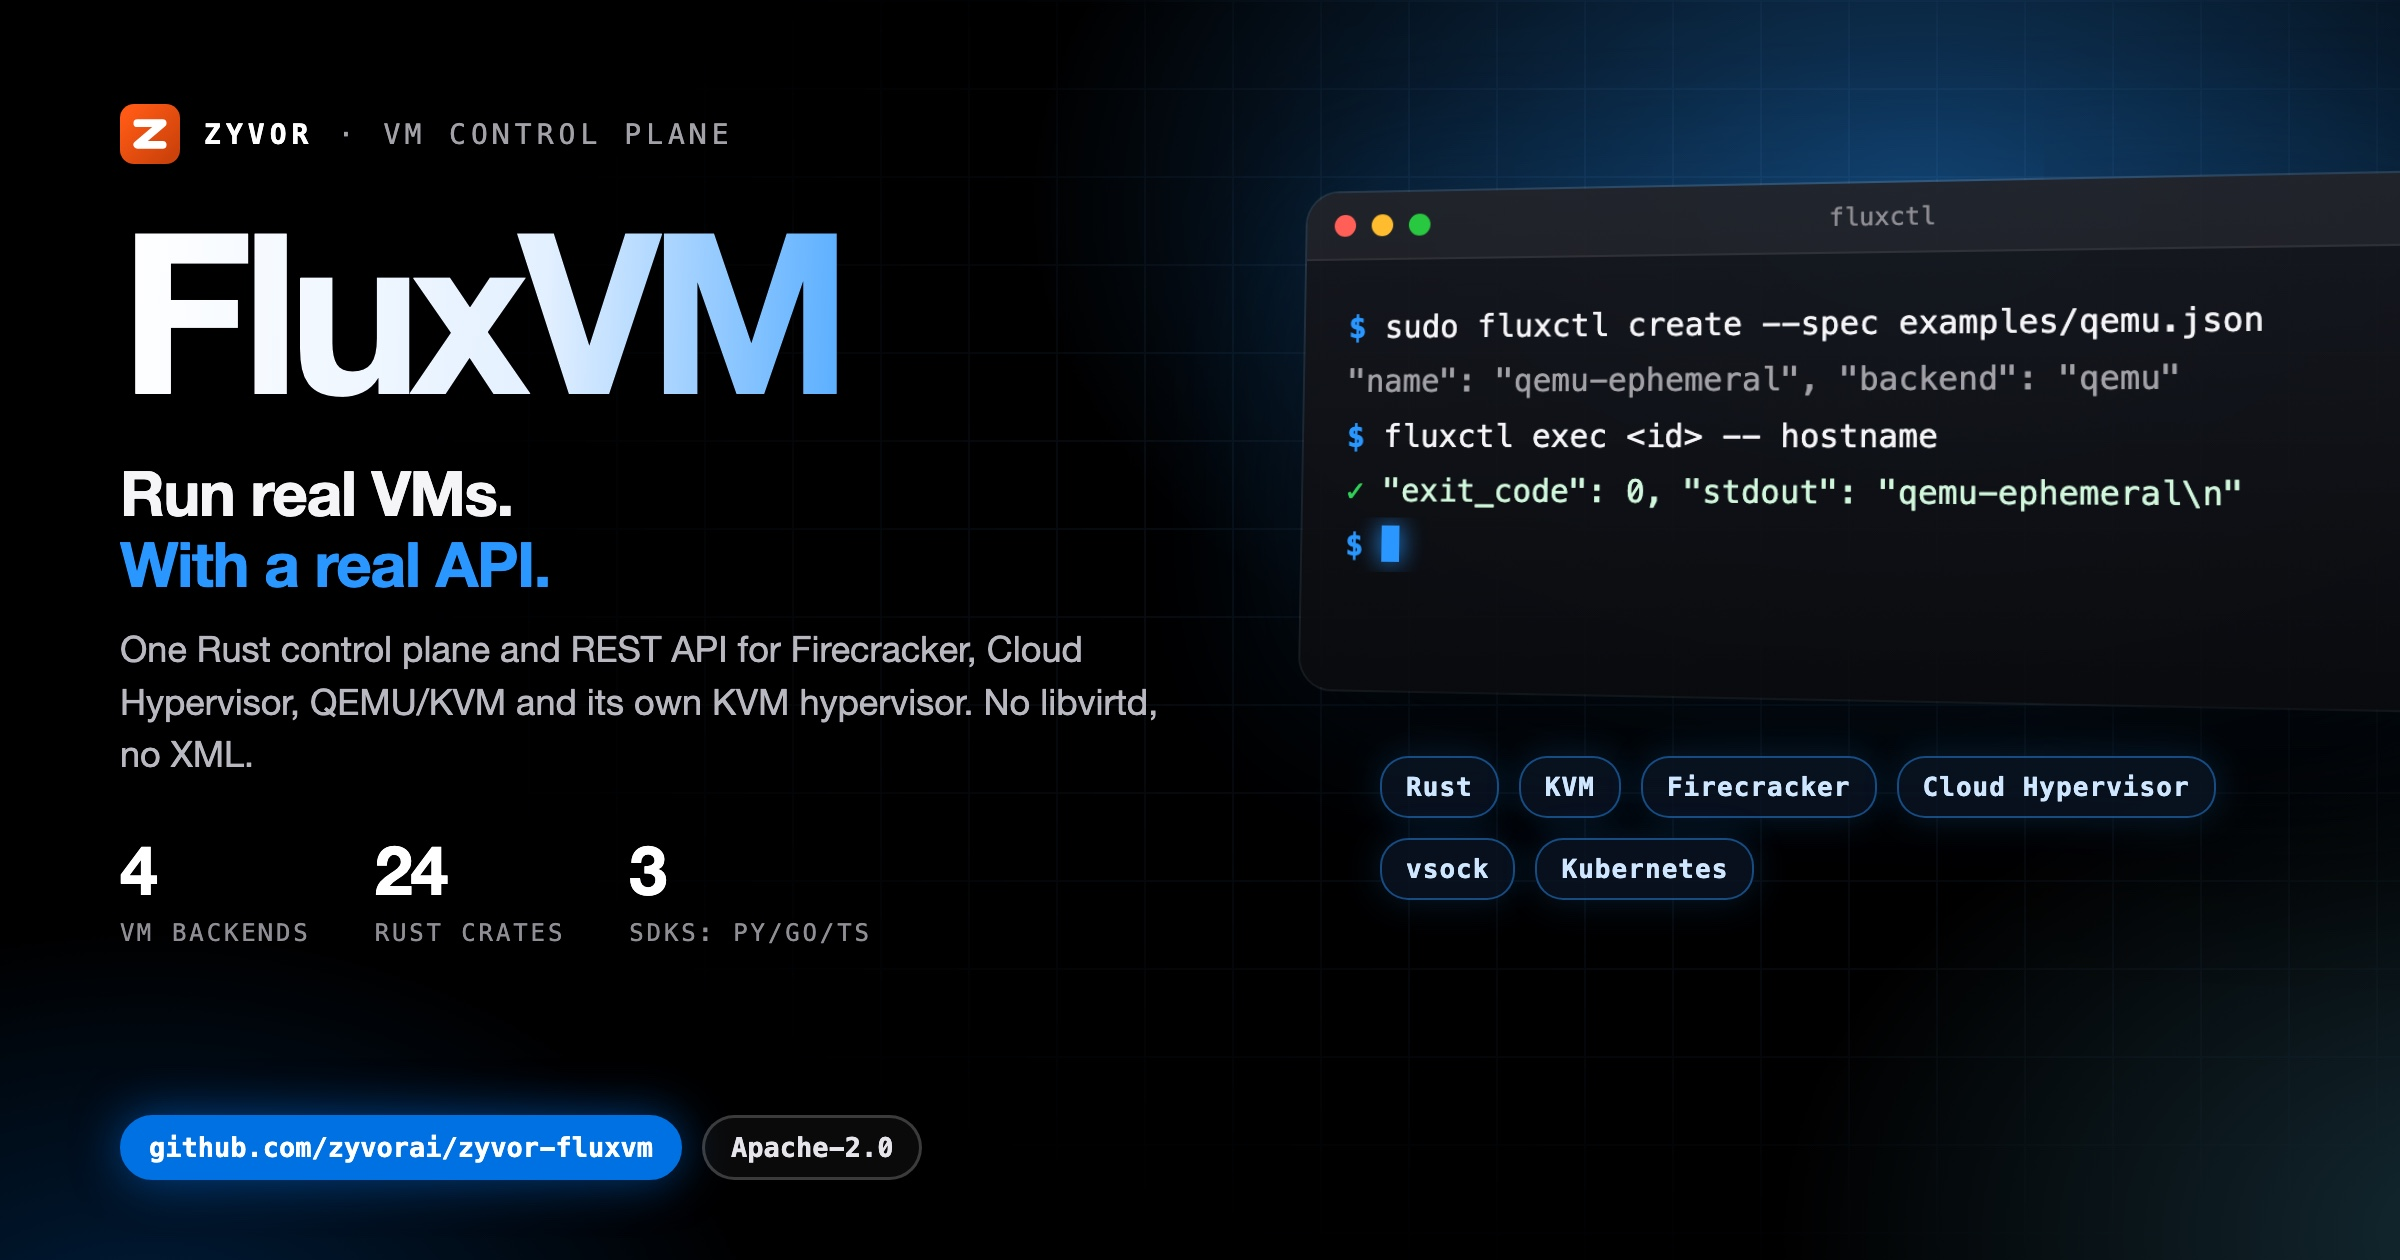
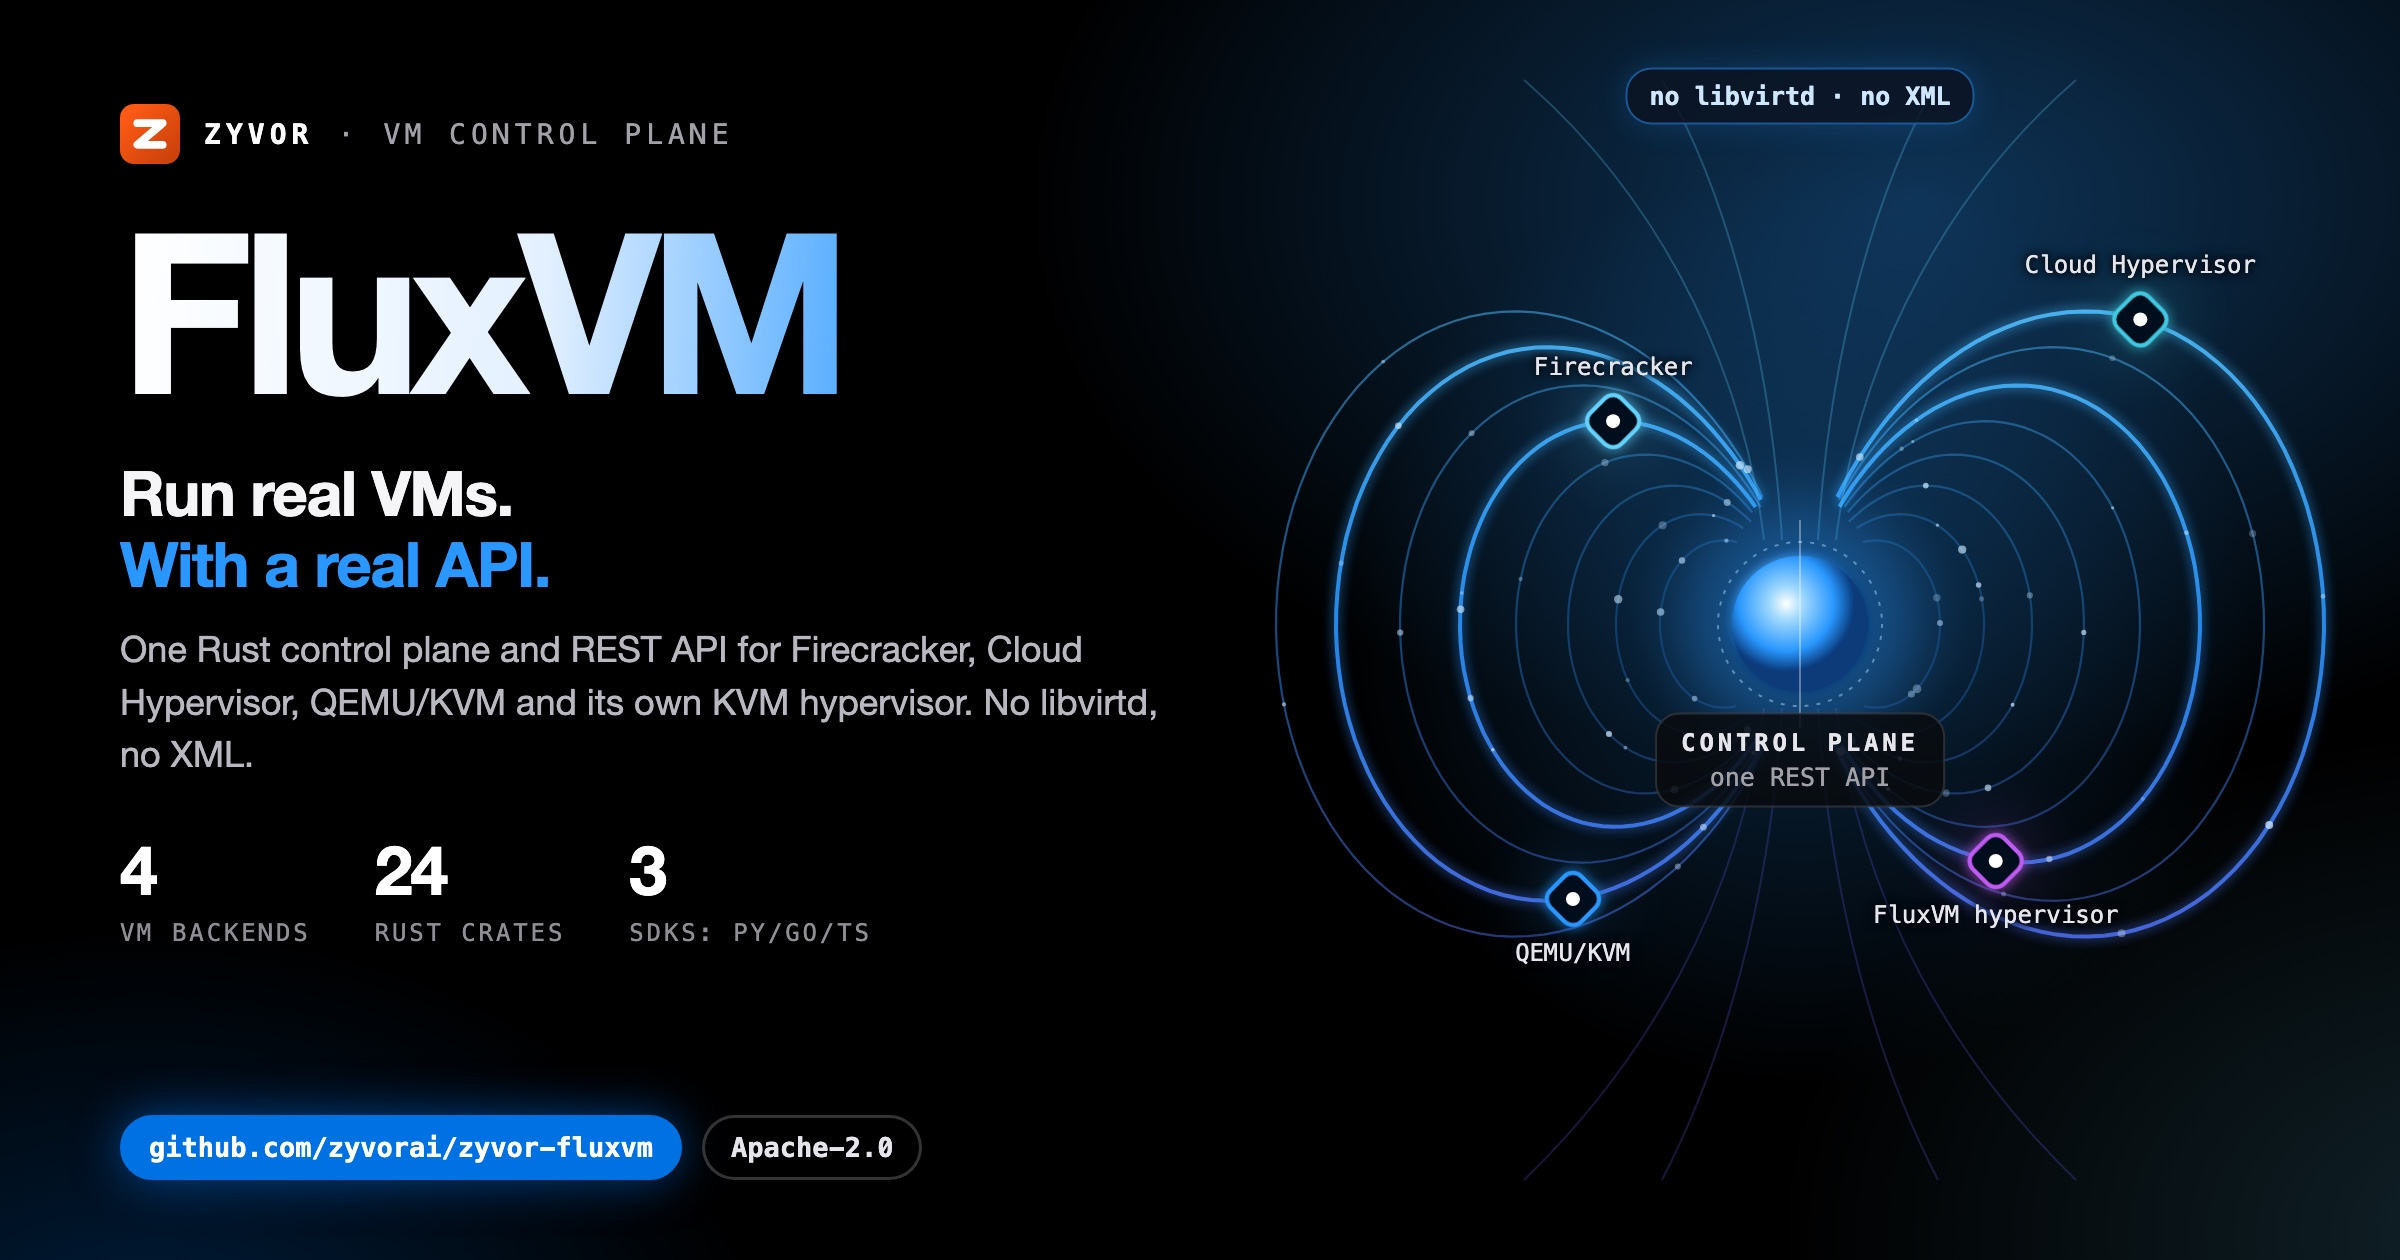
docs(social): unique illustrated hero card
Replace the shared terminal-window art with a motif drawn for this project;
same verified copy and stats on the left.

Changed region(s): [[0.5312, 0.031, 1.0, 0.7738]]

diff --git a/docs/social/fluxvm-hero-dark.html b/docs/social/fluxvm-hero-dark.html
@@ -8,58 +8,47 @@
   Build: ./docs/social/build-hero-dark.sh  ->  fluxvm-hero-dark.jpg (2400x1260)
 -->
 <style>
-  :root { --blue:#0071e3; --signal:#2997ff; --cyan:#64d2ff; --green:#30d158; --amber:#ff9f0a;
+  :root { --blue:#0071e3; --signal:#2997ff; --cyan:#64d2ff; --green:#30d158; --amber:#ff9f0a; --red:#ff453a; --violet:#bf5af2;
     --sans:'SF Pro Display','Helvetica Neue',Helvetica,Arial,sans-serif; --mono:'SF Mono',Menlo,Consolas,monospace; }
   * { box-sizing:border-box; }
   html,body { margin:0; padding:0; }
   body { width:1200px; height:630px; overflow:hidden; color:#f5f5f7; font-family:var(--sans); position:relative; background:#000; }
   .aurora { position:absolute; inset:0;
-    background:radial-gradient(720px 460px at 80% 16%, rgba(41,151,255,.40), transparent 62%),
-               radial-gradient(600px 420px at 104% 98%, rgba(100,210,255,.20), transparent 60%),
+    background:radial-gradient(720px 460px at 80% 16%, rgba(41,151,255,.34), transparent 62%),
+               radial-gradient(600px 420px at 104% 98%, rgba(100,210,255,.16), transparent 60%),
                radial-gradient(520px 380px at 6% 110%, rgba(0,113,227,.28), transparent 60%); }
-  .grid { position:absolute; inset:0; opacity:.09;
-    background-image:linear-gradient(rgba(120,180,255,.9) 1px,transparent 1px),linear-gradient(90deg,rgba(120,180,255,.9) 1px,transparent 1px);
-    background-size:44px 44px; -webkit-mask-image:radial-gradient(900px 520px at 72% 42%, #000 18%, transparent 75%); }
-  .left { position:absolute; left:60px; top:52px; width:560px; z-index:3; }
+  .copy { position:absolute; left:60px; top:52px; width:560px; z-index:3; }
   .brand { display:flex; align-items:center; gap:12px; font-family:var(--mono); font-size:14px; letter-spacing:.18em; text-transform:uppercase; color:#a1a1a6; }
   .brand b { color:#fff; }
   .word { margin:20px 0 0; font-size:112px; line-height:.95; font-weight:800; letter-spacing:-.05em; white-space:nowrap;
     background:linear-gradient(92deg,#fff 0%,#e3f0ff 38%,var(--signal) 74%,var(--cyan) 100%); -webkit-background-clip:text; background-clip:text; color:transparent; padding-bottom:6px; }
   .tag { margin:14px 0 0; font-size:31px; line-height:1.15; font-weight:700; letter-spacing:-.02em; }
   .tag em { font-style:normal; color:var(--signal); }
-  .lede { margin:12px 0 0; font-size:18px; line-height:1.45; color:#b8b8bf; width:520px; }
+  .lede { margin:12px 0 0; font-size:18px; line-height:1.45; color:#b8b8bf; width:520px; text-shadow:0 1px 12px #000; }
   .stats { margin-top:24px; display:flex; gap:32px; }
   .stat b { display:block; font-size:34px; font-weight:800; letter-spacing:-.03em; color:#fff; }
   .stat span { font-family:var(--mono); font-size:12px; letter-spacing:.12em; text-transform:uppercase; color:#8e8e93; }
   .pill { position:absolute; left:60px; bottom:40px; display:flex; gap:10px; z-index:3; }
-  .pill span { font-family:var(--mono); font-size:13.5px; font-weight:700; padding:7px 13px; border-radius:18px; border:1.5px solid rgba(255,255,255,.2); color:#e5e5ea; background:rgba(255,255,255,.04); }
+  .pill span { font-family:var(--mono); font-size:13.5px; font-weight:700; padding:7px 13px; border-radius:18px; border:1.5px solid rgba(255,255,255,.2); color:#e5e5ea; background:rgba(0,0,0,.6); }
   .pill span.b { background:var(--blue); border-color:var(--blue); color:#fff; box-shadow:0 0 24px rgba(0,113,227,.55); }
-
-  .right { position:absolute; left:652px; top:96px; width:560px; z-index:2; }
-  .win { position:relative; width:560px; border-radius:16px; overflow:hidden; z-index:2;
-    background:linear-gradient(180deg, rgba(22,24,30,.94), rgba(10,11,14,.96));
-    box-shadow:0 50px 100px rgba(0,0,0,.75), 0 0 0 1px rgba(255,255,255,.14), 0 0 90px rgba(41,151,255,.22);
-    transform:perspective(1600px) rotateY(-14deg) rotateX(4deg); transform-origin:left center; }
-  .bar { height:34px; display:flex; align-items:center; gap:8px; padding:0 14px; background:rgba(255,255,255,.05); border-bottom:1px solid rgba(255,255,255,.07); }
-  .bar i { width:11px; height:11px; border-radius:50%; background:#ff5f57; } .bar i:nth-child(2){background:#febc2e} .bar i:nth-child(3){background:#28c840}
-  .bar em { margin-left:auto; margin-right:auto; font-style:normal; font-family:var(--mono); font-size:12px; color:#8e8e93; transform:translateX(-24px); }
-  .term { min-height:214px; padding:20px 22px 24px; font-family:var(--mono); font-size:15.5px; line-height:1.75; }
-  .l { white-space:pre; overflow:hidden; text-overflow:ellipsis; color:#f5f5f7; }
-  .l .p { color:var(--signal); font-weight:700; }
-  .l.out { color:#a1a1a6; }
-  .l.cm { color:#6e6e73; }
-  .l.ok { color:#d1f7dc; } .l.ok span { color:var(--green); font-weight:700; }
-  .l.warn { color:#ffe1b0; } .l.warn span { color:var(--amber); font-weight:700; }
-  .cur { display:inline-block; width:9px; height:18px; background:var(--signal); vertical-align:-3px; box-shadow:0 0 12px var(--signal); }
-  .chips { margin:34px 0 0 38px; width:480px; display:flex; flex-wrap:wrap; gap:10px; position:relative; z-index:3; }
-  .chips span { font-family:var(--mono); font-size:13px; font-weight:700; letter-spacing:.04em; padding:7px 12px; border-radius:14px;
-    color:#cfe6ff; background:rgba(10,20,35,.82); border:1px solid rgba(41,151,255,.45); box-shadow:0 0 18px rgba(41,151,255,.18); }
+  .art { position:absolute; left:520px; top:0; width:680px; height:630px; z-index:2; }
+  .art svg { display:block; }
+  #labels { position:absolute; inset:0; z-index:4; pointer-events:none; }
+  .lbl { position:absolute; font-family:var(--mono); font-size:12.5px; color:#a1a1a6; text-align:center; transform:translate(-50%,-50%); white-space:nowrap; }
+  .lbl b { display:block; font-size:12px; letter-spacing:.16em; text-transform:uppercase; color:#e5e5ea; }
+  .lbl span { display:block; margin-top:3px; }
+  .lbl.box { padding:7px 12px; border-radius:12px; background:rgba(8,10,14,.85); border:1px solid rgba(255,255,255,.14); }
+  .lbl.chip { padding:6px 11px; border-radius:13px; font-size:12.5px; font-weight:700; color:#cfe6ff; background:rgba(10,20,35,.85); border:1px solid rgba(41,151,255,.5); box-shadow:0 0 16px rgba(41,151,255,.2); }
+  .lbl.left { transform:translate(0,-50%); text-align:left; }
+  .lbl.right { transform:translate(-100%,-50%); text-align:right; }
+  .ok { color:var(--green) !important; } .warn { color:var(--amber) !important; } .bad { color:var(--red) !important; } .sig { color:var(--signal) !important; } .cy { color:var(--cyan) !important; } .vi { color:var(--violet) !important; }
 </style>
 </head>
 <body>
 <div class="aurora"></div>
-<div class="grid"></div>
-<div class="left">
+<div class="art"><svg id="art" width="680" height="630" viewBox="0 0 680 630" xmlns="http://www.w3.org/2000/svg"></svg></div>
+<div id="labels"></div>
+<div class="copy">
   <div class="brand"><svg viewBox="0 0 64 64" width="30" height="30" aria-hidden="true"><defs><linearGradient id="zb" x1="8" y1="8" x2="56" y2="56" gradientUnits="userSpaceOnUse"><stop offset="0" stop-color="#ff5a15"/><stop offset="1" stop-color="#cc420a"/></linearGradient></defs><rect width="64" height="64" rx="15" fill="url(#zb)"/><path d="M18.5,20.5 45.5,20.5 18.5,43.5 45.5,43.5" fill="none" stroke="#fff" stroke-width="8.3" stroke-linecap="round" stroke-linejoin="round"/></svg><b>Zyvor</b><span>&middot;</span><span>VM control plane</span></div>
   <div class="word">FluxVM</div>
   <div class="tag">Run real VMs.<br><em>With a real API.</em></div>
@@ -67,8 +56,95 @@
   <div class="stats"><div class="stat"><b>4</b><span>VM backends</span></div><div class="stat"><b>24</b><span>Rust crates</span></div><div class="stat"><b>3</b><span>SDKs: Py/Go/TS</span></div></div>
 </div>
 <div class="pill"><span class="b">github.com/zyvorai/zyvor-fluxvm</span><span>Apache-2.0</span></div>
-<div class="right"><div class="win"><div class="bar"><i></i><i></i><i></i><em>fluxctl</em></div>
-<div class="term"><div class="l"><span class="p">$</span> sudo fluxctl create --spec examples/qemu.json</div><div class="l out">&quot;name&quot;: &quot;qemu-ephemeral&quot;, &quot;backend&quot;: &quot;qemu&quot;</div><div class="l"><span class="p">$</span> fluxctl exec &lt;id&gt; -- hostname</div><div class="l ok"><span>&#10003;</span> &quot;exit_code&quot;: 0, &quot;stdout&quot;: &quot;qemu-ephemeral\n&quot;</div><div class="l"><span class="p">$</span> <i class="cur"></i></div></div></div>
-<div class="chips"><span>Rust</span><span>KVM</span><span>Firecracker</span><span>Cloud Hypervisor</span><span>vsock</span><span>Kubernetes</span></div></div>
+<script>
+var Z = (function () {
+  var NS = 'http://www.w3.org/2000/svg', svg = document.getElementById('art'), labels = document.getElementById('labels');
+  var seed = 20261004;
+  function rnd() { seed = (seed * 1103515245 + 12345) % 2147483648; return seed / 2147483648; }
+  function el(tag, a, parent) { var n = document.createElementNS(NS, tag); for (var k in a) n.setAttribute(k, a[k]); (parent || svg).appendChild(n); return n; }
+  function g(attrs) { return el('g', attrs || {}); }
+  function label(x, y, inner, cls, style) { var d = document.createElement('div'); d.className = 'lbl ' + (cls || ''); d.style.left = (520 + x) + 'px'; d.style.top = y + 'px'; if (style) d.setAttribute('style', d.getAttribute('style') + ';' + style); d.innerHTML = inner; labels.appendChild(d); return d; }
+  return { NS: NS, svg: svg, W: 680, H: 630, rnd: rnd, el: el, g: g, label: label,
+    reseed: function (s) { seed = s; },
+    c: { blue: '#0071e3', signal: '#2997ff', cyan: '#64d2ff', green: '#30d158', amber: '#ff9f0a', red: '#ff453a', violet: '#bf5af2', teal: '#40c8e0', indigo: '#5e5ce6', pink: '#ff375f', white: '#f5f5f7', grey: '#8e8e93' } };
+})();
+(function () {
+// FluxVM: dipole flux around one control-plane core. The four VM backends ride on the field lines.
+var C = Z.c;
+var defs = Z.el('defs', {});
+defs.innerHTML = '<filter id="fxGl" filterUnits="userSpaceOnUse" x="-50" y="-50" width="780" height="730"><feGaussianBlur stdDeviation="3" result="b"/><feMerge><feMergeNode in="b"/><feMergeNode in="SourceGraphic"/></feMerge></filter>' +
+  '<filter id="fxSf" filterUnits="userSpaceOnUse" x="-50" y="-50" width="780" height="730"><feGaussianBlur stdDeviation="16"/></filter>' +
+  '<radialGradient id="fxCore" cx=".4" cy=".35"><stop offset="0" stop-color="#ffffff"/><stop offset=".25" stop-color="#9fd8ff"/><stop offset=".7" stop-color="#2997ff"/><stop offset="1" stop-color="#0a3a7a"/></radialGradient>' +
+  '<radialGradient id="fxHalo"><stop offset="0" stop-color="#2997ff" stop-opacity=".55"/><stop offset="1" stop-color="#2997ff" stop-opacity="0"/></radialGradient>' +
+  '<linearGradient id="fxLine" gradientUnits="userSpaceOnUse" x1="0" y1="80" x2="0" y2="540"><stop offset="0" stop-color="#64d2ff"/><stop offset=".5" stop-color="#2997ff"/><stop offset="1" stop-color="#5e5ce6"/></linearGradient>';
+
+var cx = 380, cy = 312, SY = 1.55, rCore = 34;
+function fieldPath(L, side) {
+  var d = '', started = false;
+  for (var t = 2; t <= 178; t += 1.5) {
+    var th = t * Math.PI / 180, r = L * Math.sin(th) * Math.sin(th);
+    if (r < rCore + 6) { started = false; continue; }
+    var x = cx + side * r * Math.sin(th), y = cy - SY * r * Math.cos(th);
+    d += (started ? ' L' : ' M') + x.toFixed(1) + ',' + y.toFixed(1);
+    started = true;
+  }
+  return d;
+}
+Z.el('circle', { cx: cx, cy: cy, r: 230, fill: 'url(#fxHalo)', opacity: .45 });
+
+// field lines: faint many, a few bright
+var Ls = [70, 92, 116, 142, 170, 200, 232, 262];
+var paths = {};
+Ls.forEach(function (L, k) {
+  [-1, 1].forEach(function (side) {
+    var d = fieldPath(L, side), bright = (k === 5 && side > 0) || (k === 4 && side < 0) || (k === 6 && side < 0) || (k === 7 && side > 0);
+    Z.el('path', { d: d, fill: 'none', stroke: 'url(#fxLine)', 'stroke-width': bright ? 2 : 1.1, opacity: bright ? .9 : (.22 + k * .04), filter: bright ? 'url(#fxGl)' : null });
+    paths[L + ':' + side] = Z.el('path', { d: d, fill: 'none', stroke: 'none' });
+  });
+});
+// open polar lines near the axis
+for (var k = -2; k <= 2; k++) {
+  if (!k) continue;
+  var x0 = cx + k * 9;
+  Z.el('path', { d: 'M' + x0 + ',' + (cy - rCore - 8) + ' C' + (x0 + k * 6) + ',' + (cy - 140) + ' ' + (x0 + k * 30) + ',' + (cy - 220) + ' ' + (x0 + k * 60) + ',' + 40, fill: 'none', stroke: C.cyan, 'stroke-width': 1, opacity: .25 });
+  Z.el('path', { d: 'M' + x0 + ',' + (cy + rCore + 8) + ' C' + (x0 + k * 6) + ',' + (cy + 140) + ' ' + (x0 + k * 30) + ',' + (cy + 220) + ' ' + (x0 + k * 60) + ',' + 590, fill: 'none', stroke: C.indigo, 'stroke-width': 1, opacity: .25 });
+}
+// flux particles drifting along lines
+Ls.forEach(function (L) {
+  [-1, 1].forEach(function (side) {
+    var p = paths[L + ':' + side], len = p.getTotalLength();
+    for (var n = 0; n < 4; n++) {
+      var pt = p.getPointAtLength(Z.rnd() * len);
+      Z.el('circle', { cx: pt.x.toFixed(1), cy: pt.y.toFixed(1), r: (0.8 + Z.rnd() * 1.4).toFixed(2), fill: '#cfe9ff', opacity: (.25 + Z.rnd() * .5).toFixed(2) });
+    }
+  });
+});
+
+// core
+Z.el('circle', { cx: cx, cy: cy, r: 60, fill: '#2997ff', opacity: .35, filter: 'url(#fxSf)' });
+Z.el('circle', { cx: cx, cy: cy, r: rCore, fill: 'url(#fxCore)', filter: 'url(#fxGl)' });
+Z.el('circle', { cx: cx, cy: cy, r: rCore + 7, fill: 'none', stroke: 'rgba(160,215,255,.5)', 'stroke-width': 1, 'stroke-dasharray': '2 4' });
+Z.el('line', { x1: cx, y1: cy - rCore - 18, x2: cx, y2: cy + rCore + 18, stroke: 'rgba(255,255,255,.35)', 'stroke-width': 1 });
+
+// backends sitting on the field lines
+var nodes = [
+  { L: 170, side: -1, t: 55, n: 'Firecracker', c: C.cyan, up: true },
+  { L: 262, side: 1, t: 60, n: 'Cloud Hypervisor', c: C.teal, up: true },
+  { L: 232, side: -1, t: 128, n: 'QEMU/KVM', c: C.signal, up: false },
+  { L: 200, side: 1, t: 128, n: 'FluxVM hypervisor', c: C.violet, up: false }
+];
+nodes.forEach(function (nd) {
+  var th = nd.t * Math.PI / 180, r = nd.L * Math.sin(th) * Math.sin(th);
+  var x = cx + nd.side * r * Math.sin(th), y = cy - SY * r * Math.cos(th);
+  Z.el('circle', { cx: x, cy: y, r: 20, fill: nd.c, opacity: .18, filter: 'url(#fxSf)' });
+  Z.el('rect', { x: x - 11, y: y - 11, width: 22, height: 22, rx: 6, fill: '#06101c', stroke: nd.c, 'stroke-width': 2, filter: 'url(#fxGl)', transform: 'rotate(45 ' + x + ' ' + y + ')' });
+  Z.el('circle', { cx: x, cy: y, r: 3.5, fill: '#fff' });
+  Z.label(x, y + (nd.up ? -27 : 27), nd.n, '', 'color:#e5e5ea;font-size:12px;text-shadow:0 0 6px #05080e,0 0 3px #05080e');
+});
+
+Z.label(cx, cy + rCore + 34, '<b>control plane</b><span>one REST API</span>', 'box');
+Z.label(cx, 48, 'no libvirtd &middot; no XML', 'chip');
+})();
+</script>
 </body>
 </html>
